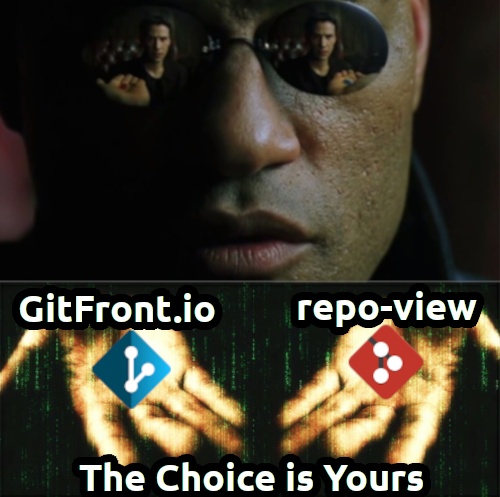
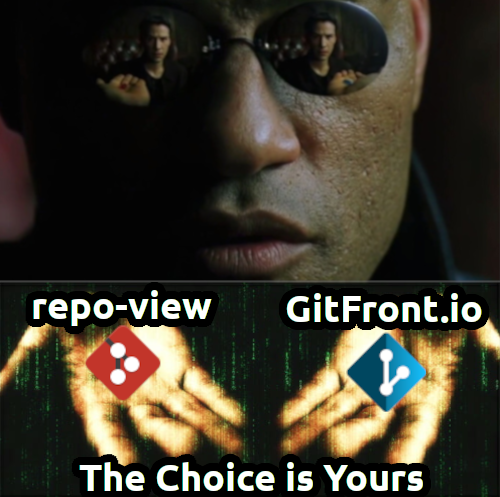
3rd day work

Changed region(s): [[0.03, 0.5734, 0.45, 0.8451], [0.57, 0.5734, 0.99, 0.8451]]

diff --git a/README.md b/README.md
@@ -1,35 +1,55 @@
-meme img
-
-lets say you have a really good private Github repo that you wanna add it to your CV.
-wait! it is private. right ?. then how ??. would you make it public ???
-hell NO! it is private and MUST stay as is. sure you don't wanna your business proprietary code base be published as open-source.
+<h1 align="center">~: repo-view :~</h1>
+<p align="center">
+  <img src="https://github.com/ibrahemesam/repo-view/blob/main/asset/favicon.svg?raw=true" width="30%"/>
+</p>
+— lets employers see your private GitHub repositories in your CV
+<hr>
+<h1>Overview :-</h1>
+<pre>
+let's say you have a really good private repo that you wanna add to your CV.
+wait! it is private. right ? then how ?? would you make it public ???
+hell NO! it is private and MUST stay as is.
+sure you don't wanna your business proprietary code base be published as open-source.
 man!, you just wanna show it only to some employers.
-off course you can add these employers as collaborators with read-only permissions to this private repo.
-but, first you have to get their Github usernames. also, you will have to add them one by one.
+of course you can add these employers as collaborators with read-only permissions to this private repo.
+but, first you will have to get their GitHub usernames. also, you will have to add them one by one.
 maybe you gonna use a cloud storage service with code syntax highlighting ?
 oh, what about synchronization between your Github repo and these cloud services ??
 what if the cloud shared folder got found by search engines ???
-
-so, here is the solution:-
-there is a website called GitFront.io : it can host your private repo and provide a presentation url that is accessible to anyone who has it.
+</pre>
+<hr>
+<h1>Solution :-</h1>
+<pre>
+there is a website called <a href="https://gitfront.io" target="_blank">GitFront.io</a> :
+    it can host your private repo and provide a presentation url that is accessible to anyone who has it.
 - problem with GitFront is that: it allows hosting only less-than 100 MB repo for free account.
     if your private repo is larger than that, you gonna have to pay 💵💵💲
     ( this was the reason why I created this project )
 - your github repo does not get directly synchronized with GitFront
-
-my solution do exactly the same except that:
-- it is a static web page (no backend) -> your code exists only on Github. it does not goto 3rd party server
+</pre>
+<pre>
+my repo-view do exactly the same except that:
+- it is a static web page (no backend) -> your code exists only on Github. it does not goto any 3rd party server
 - it uses official GitHub REST API, it gets files directly from GitHub
 - no problem if repo is larger than 100 MB. you still can preview it
 - it is a single page application
-- it has some extra feature eg: downloading repo as zip or tar, dark theme switch, ...
-
-Usage:-
+- it has some extra features eg: downloading repo as zip or tar, dark theme switch, ...
+</pre>
+<p align="center">
+  <img src="https://github.com/ibrahemesam/repo-view/blob/main/matrix-meme.png?raw=true" />
+</p>
+<hr>
+<h1>Usage :-</h1>
+<pre>
 it is a static web page. so, configuration is gonna passed as url params.
-params:-
-token : string => github access_token
-    warning: use only tokens with only permissions: repos read-only
-token_ready : bool => it is optional: default is "false" =>
+<h2>params :-</h2>
+<strong>token</strong> : string => github access_token
+    warning: use only tokens with only permissions: repos read-only<br>
+<strong>repo</strong> : string => the repo name on github<br>
+<strong>owner</strong> : string => the repo owner username (or organization username) on github
+                  if omitted, it would be fetched from githun (the username who created the access_token).
+                              so, if that username is not the owner of the repo, you gonna get ERROR 404<br>
+<strong>token_ready</strong> : bool => it is optional: default is "false" =>
     if true: provide token param is gonna be used as is
     else:
         the provided token param must be provied as encodes base64 string using js "btoa" method
@@ -38,28 +58,25 @@ token_ready : bool => it is optional: default is "false" =>
             - the token does not exist readily on url:
                 if any web scrapper found the url and got the token and tried it on his terminal:
                     it wont work. it fist need to be decoded
-            - if the one ,to whom you send the url, tried to use the token (in their terminal) before they view the url on web browser. and it worked.
+            - if the one ,to whom you send the url, tried to use the token (in their terminal)
+                before they view the url on web browser. and it worked.
                 they may think they got hands on a treasure. and they may exploit this token.
                 but if it did not work (ie: it was base64-encoded): sooner or later, after they open the url,
                     they gonna find that they can just get the real token from the web page.
-                    so, they wont get too excited about that token.
-repo : string => the repo name on github
-owner : string => the repo owner username (or organization username) on github
-                  if omitted, it would be fetched from githun (the username who created the access_token).
-                              so, if that username is not the owner of the repo, you gonna get ERROR 404
-
-so the url would be: https://ibrahemesam.github.io/repo-view/?token=<token>&repo=<repo-name>&owner=<owner-username>
-...
-
-
-> warning: any one with the url can preview and clone the repo
->          so, put it only on your CV and send it only to employers
->              do NOT put it on places where it may be stolen eg: https://<your_username>.github.io
+                    so, they wont get too excited about that token.<br>
+<strong>so</strong> the url would be: https://ibrahemesam.github.io/repo-view/?token=<token>&repo=<repo-name>&owner=<owner-username>
+</pre>
+<hr>
+<pre>
+<strong>!! Warning !!</strong>: any one with the url can preview and clone the repo
+          so, put it only on your CV and send it only to employers
+              do NOT put it on places where it may be stolen eg: https://<your_username>.github.io
                     or the production business website of the private repo
-
-> feel free to report any bug through issues section
-
-## TODOs:-
+</pre>
+<hr>
+<h1 align="center" style="margin: auto;">feel free to report any bug through issues section</h1>
+<hr>
+<h1>TODOs :-</h1>
 
 - [ ] js/theme-switch.js TODOs && index.html TODOs
 - [ ] add btn for zip download and another for tar download
@@ -73,8 +90,5 @@ so the url would be: https://ibrahemesam.github.io/repo-view/?token=<token>&repo
 
 - [ ] add online/offline events and icon to indicate online status
 
-- [ ] document this project
-    - [x] useless b64 token in url params is for لسبب نفسي + ان التوكن ميبقاش مباشر في اللنك
-    - [ ] meme: red pill (repo-view) vs blue pill (GitFront) matrix man ( the choice is yours )
-
+- [ ] add LICENSE.txt
 - [ ] backend automation: re-new token anually using python
